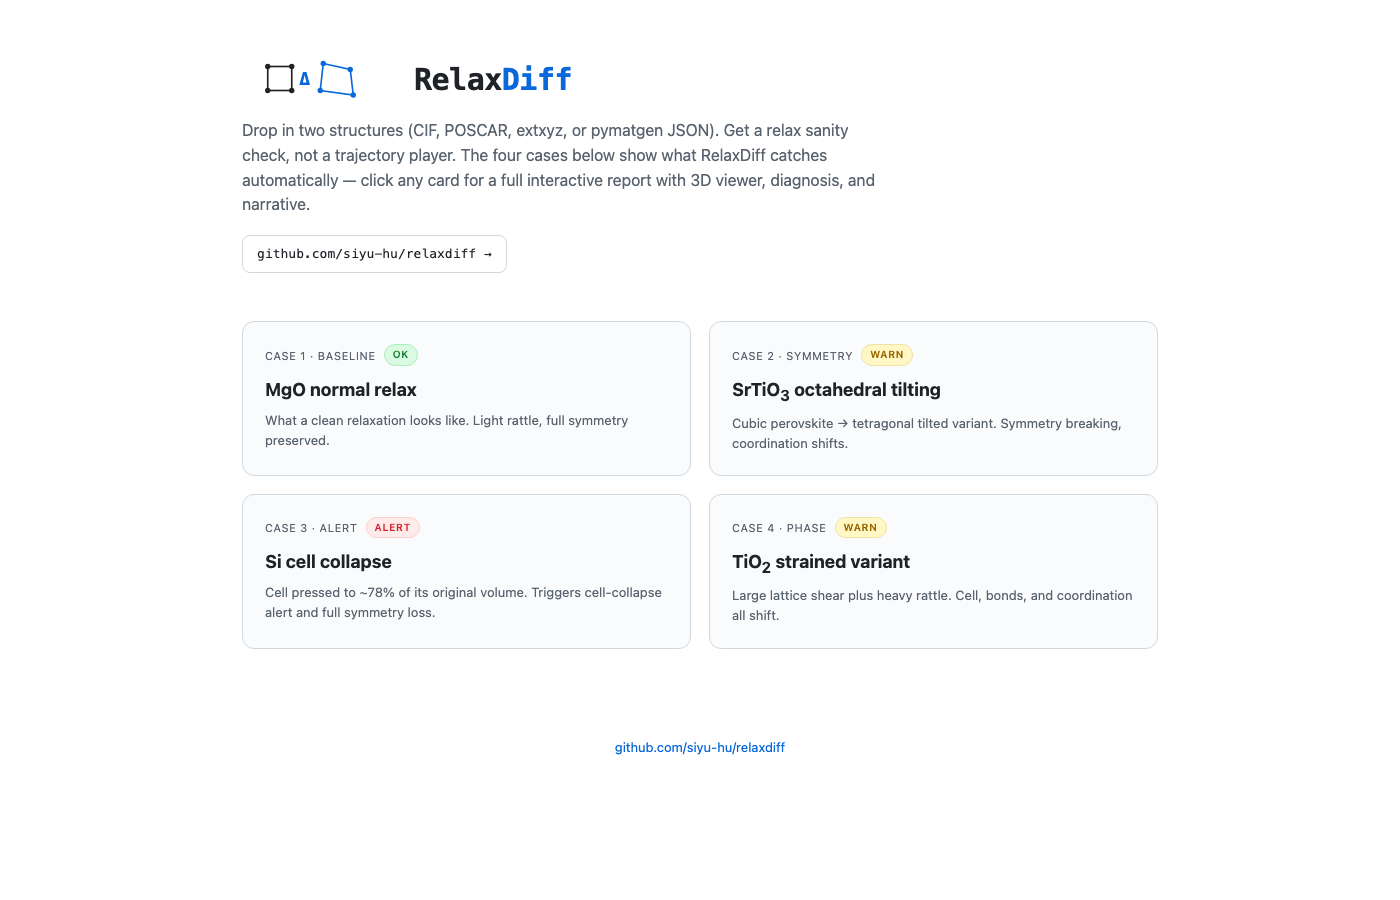
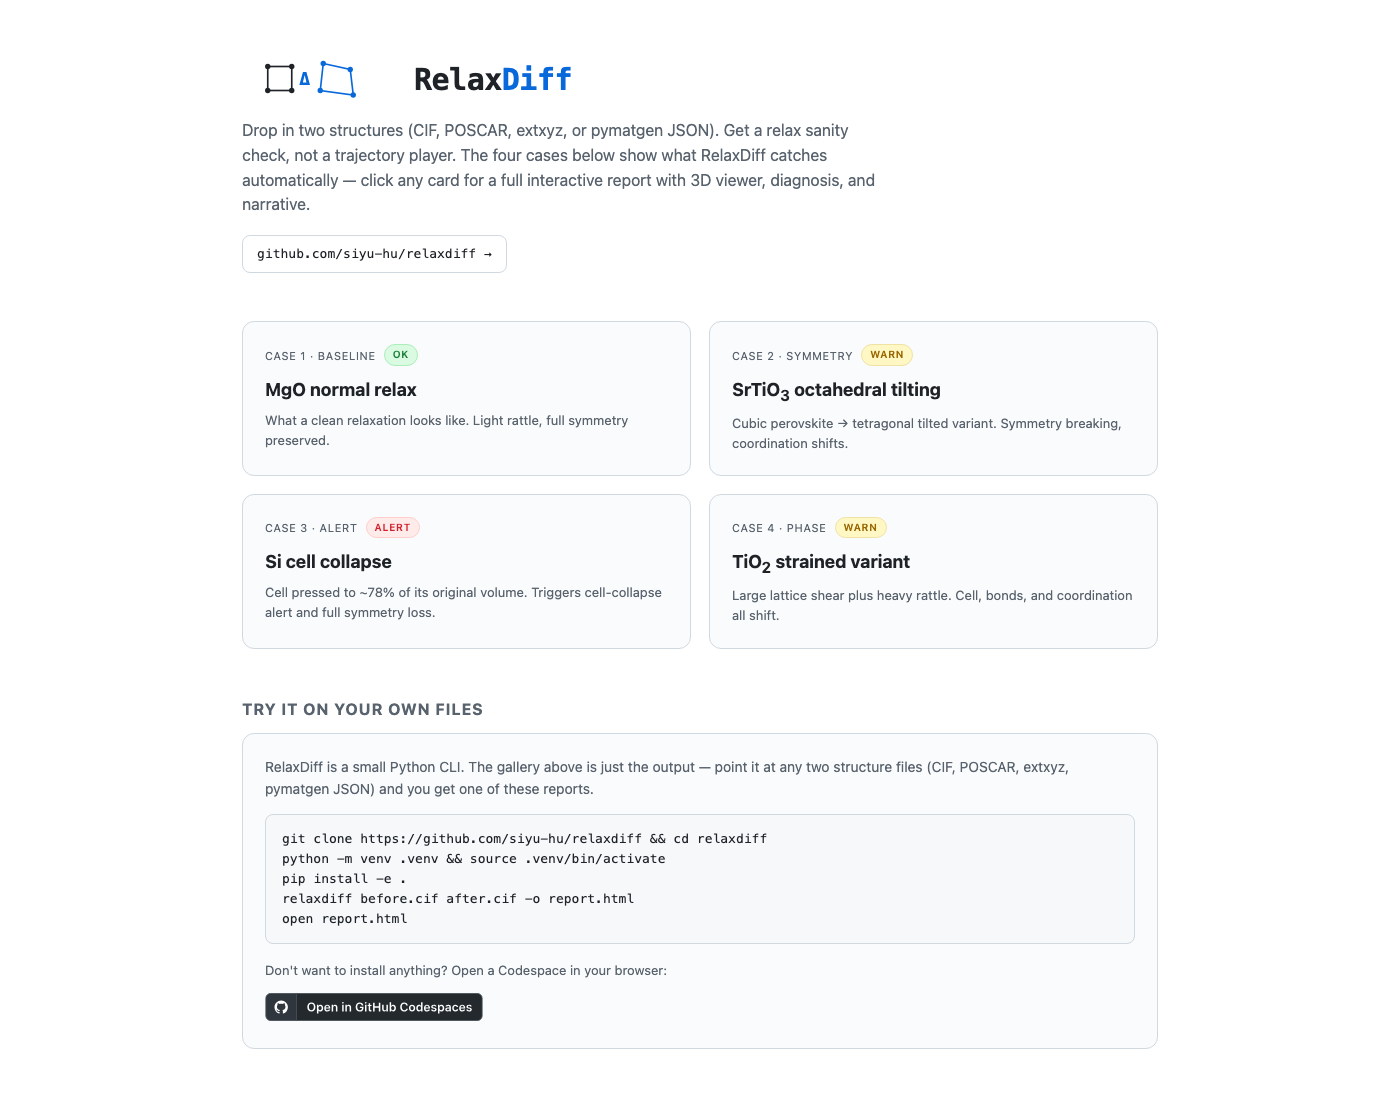
Make Quick start and Codespaces entry impossible to miss
Two real complaints: the slogan says "drop in" but the gallery had no path
forward, and README's Use block was buried below Showcase. Fix both:

- README: a Quick start section right after the hero image — clone, venv,
  install, run, open. Followed by an "Open in GitHub Codespaces" badge for
  users who don't want to install locally.
- docs/index.html: a "TRY IT ON YOUR OWN FILES" card under the four
  showcase cards. Same five-line command block, same Codespaces badge.
- .devcontainer/devcontainer.json: Python 3.12 base image, postCreate runs
  pip install -e .[dev], Pylance preinstalled. Clicking the badge gets
  the user a ready-to-run terminal in ~60s.
- Gallery screenshot regenerated with the new section visible.

The CLI nature of RelaxDiff is intentional; this just makes the path from
"saw the slogan" to "running on my own files" obvious in both surfaces.

diff --git a/docs/index.html b/docs/index.html
@@ -28,9 +28,34 @@
                    color: var(--text); text-decoration: none; font-size: 13px;
                    font-family: ui-monospace, "SF Mono", Menlo, monospace; }
     header a.cta:hover { border-color: var(--accent); color: var(--accent); }
-    main { padding: 24px 32px 64px; max-width: 980px; margin: 0 auto;
+    main { padding: 24px 32px 16px; max-width: 980px; margin: 0 auto;
            display: grid; gap: 18px; grid-template-columns: repeat(2, 1fr); }
     @media (max-width: 720px) { main { grid-template-columns: 1fr; } }
+
+    .tryit {
+      max-width: 980px; margin: 32px auto 64px; padding: 0 32px;
+    }
+    .tryit h2 {
+      font-size: 16px; margin: 0 0 12px;
+      color: var(--text-dim); text-transform: uppercase; letter-spacing: 0.06em;
+    }
+    .tryit-card {
+      background: var(--panel); border: 1px solid var(--border);
+      border-radius: 12px; padding: 22px;
+    }
+    .tryit-card p { margin: 0 0 14px; color: var(--text-dim); }
+    .tryit-card pre {
+      background: #f6f8fa; border: 1px solid var(--border);
+      border-radius: 8px; padding: 14px 16px; overflow-x: auto;
+      font-family: ui-monospace, "SF Mono", Menlo, monospace;
+      font-size: 13px; margin: 0; color: var(--text);
+    }
+    .tryit-card .or {
+      display: block; margin: 16px 0 12px;
+      color: var(--text-dim); font-size: 13px;
+    }
+    .tryit-card a.codespaces-badge { display: inline-block; }
+    .tryit-card a.codespaces-badge img { display: block; height: 28px; }
     a.card {
       display: block; padding: 22px;
       background: var(--panel); border: 1px solid var(--border); border-radius: 12px;
@@ -116,6 +141,22 @@
     <p>Large lattice shear plus heavy rattle. Cell, bonds, and coordination all shift.</p>
   </a>
 </main>
+
+<section class="tryit">
+  <h2>Try it on your own files</h2>
+  <div class="tryit-card">
+    <p>RelaxDiff is a small Python CLI. The gallery above is just the output — point it at any two structure files (CIF, POSCAR, extxyz, pymatgen JSON) and you get one of these reports.</p>
+    <pre>git clone https://github.com/siyu-hu/relaxdiff &amp;&amp; cd relaxdiff
+python -m venv .venv &amp;&amp; source .venv/bin/activate
+pip install -e .
+relaxdiff before.cif after.cif -o report.html
+open report.html</pre>
+    <span class="or">Don't want to install anything? Open a Codespace in your browser:</span>
+    <a class="codespaces-badge" href="https://codespaces.new/siyu-hu/relaxdiff?quickstart=1">
+      <img src="https://github.com/codespaces/badge.svg" alt="Open in GitHub Codespaces" />
+    </a>
+  </div>
+</section>
 
 <footer>
   <a href="https://github.com/siyu-hu/relaxdiff">github.com/siyu-hu/relaxdiff</a>

diff --git a/README.md b/README.md
@@ -25,6 +25,26 @@
   </a>
 </p>
 
+## Quick start
+
+```bash
+git clone https://github.com/siyu-hu/relaxdiff && cd relaxdiff
+python -m venv .venv && source .venv/bin/activate
+pip install -e .
+relaxdiff before.cif after.cif -o report.html
+open report.html        # macOS — use xdg-open on Linux
+```
+
+Don't want to install anything locally? Spin up a preconfigured Codespace in your browser:
+
+<p>
+  <a href="https://codespaces.new/siyu-hu/relaxdiff?quickstart=1">
+    <img src="https://github.com/codespaces/badge.svg" alt="Open in GitHub Codespaces" />
+  </a>
+</p>
+
+The Codespace auto-runs `pip install -e .` on first boot, so once it's ready you can run the CLI directly in the integrated terminal.
+
 ---
 
 > **Built for:** VASP, Quantum ESPRESSO, ABINIT, CP2K, ASE, pymatgen, MACE / CHGNet relaxations — anything that writes a CIF / POSCAR / extxyz before-and-after pair.
